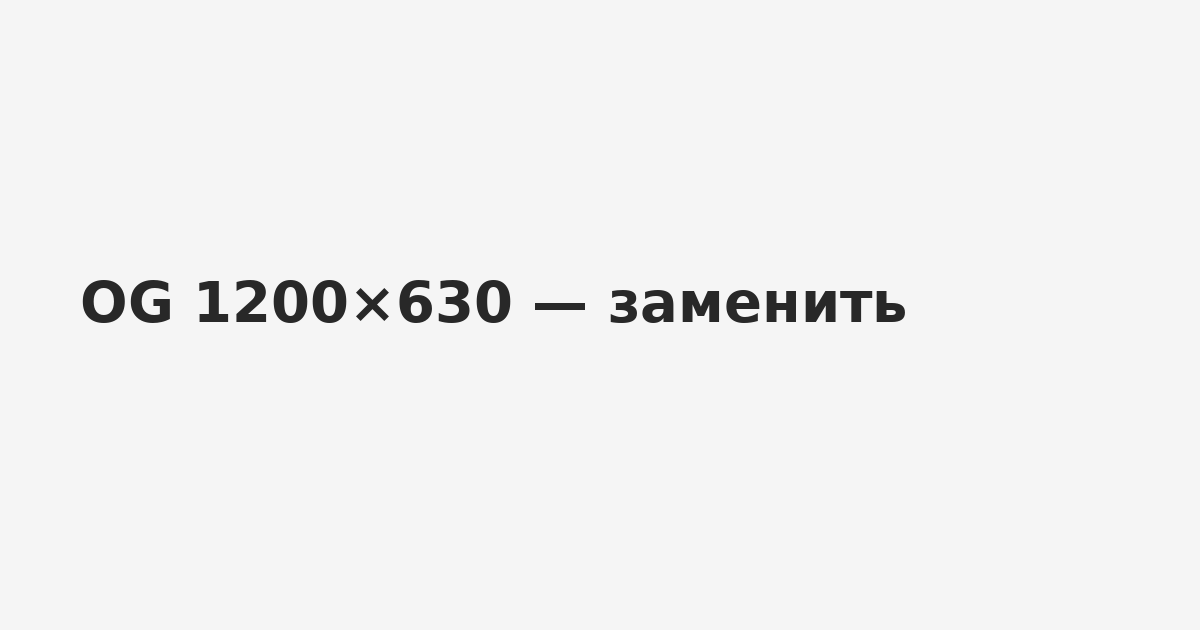
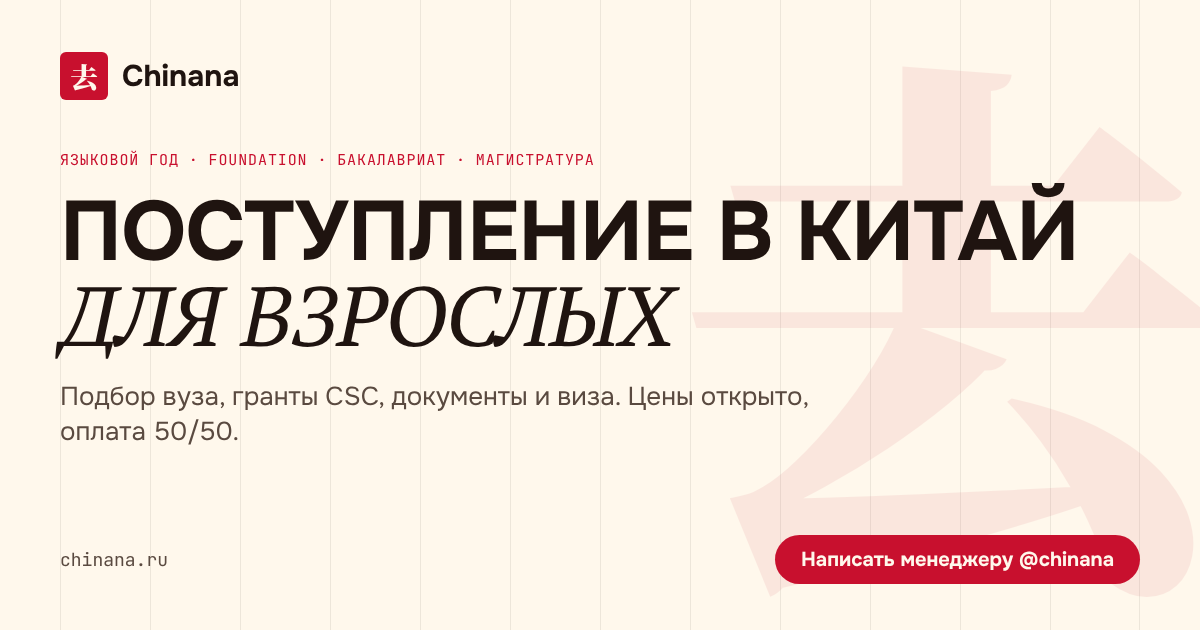
T16–T23: шрифт-подмножество, фавикон, OG, доступность логотипа (#15)
Claude-Session: https://claude.ai/code/session_01QsQA1ALxuqJ2HV99zuLppH

diff --git a/src/app/zh-font.css b/src/app/zh-font.css
@@ -1,0 +1,12 @@
+/* Сгенерировано scripts/cjk-font.py — не править руками. Иероглифов: 61, файлов: 10. */
+/* chars: 上业中交京北华南厦去吉同吧哈四国复外大奖学尔山川工师平开技旦本术林武水汉江测济浙海清滨理用硕科考范言试语费走连通金门预黑龙 */
+@font-face{font-family:'Noto Serif SC Subset';font-style:normal;font-weight:900;font-display:swap;src:url(/fonts/zh/zh-0.woff2) format('woff2');unicode-range:U+7855}
+@font-face{font-family:'Noto Serif SC Subset';font-style:normal;font-weight:900;font-display:swap;src:url(/fonts/zh/zh-1.woff2) format('woff2');unicode-range:U+65E6,U+6EE8}
+@font-face{font-family:'Noto Serif SC Subset';font-style:normal;font-weight:900;font-display:swap;src:url(/fonts/zh/zh-2.woff2) format('woff2');unicode-range:U+53A6}
+@font-face{font-family:'Noto Serif SC Subset';font-style:normal;font-weight:900;font-display:swap;src:url(/fonts/zh/zh-3.woff2) format('woff2');unicode-range:U+5409,U+54C8,U+5DDD,U+6D59}
+@font-face{font-family:'Noto Serif SC Subset';font-style:normal;font-weight:900;font-display:swap;src:url(/fonts/zh/zh-4.woff2) format('woff2');unicode-range:U+6B66,U+6C49}
+@font-face{font-family:'Noto Serif SC Subset';font-style:normal;font-weight:900;font-display:swap;src:url(/fonts/zh/zh-5.woff2) format('woff2');unicode-range:U+5956,U+5C14,U+6797,U+6D4B,U+6D4E,U+8303,U+9884}
+@font-face{font-family:'Noto Serif SC Subset';font-style:normal;font-weight:900;font-display:swap;src:url(/fonts/zh/zh-6.woff2) format('woff2');unicode-range:U+5427,U+5C71,U+5E08,U+6C5F,U+8003,U+8BD5,U+8BED,U+8D70,U+8FDE,U+9ED1,U+9F99}
+@font-face{font-family:'Noto Serif SC Subset';font-style:normal;font-weight:900;font-display:swap;src:url(/fonts/zh/zh-7.woff2) format('woff2');unicode-range:U+4EA4,U+4EAC,U+5317,U+534E,U+5357,U+53BB,U+56DB,U+590D,U+672F,U+6C34,U+6D77,U+6E05,U+8A00,U+8D39}
+@font-face{font-family:'Noto Serif SC Subset';font-style:normal;font-weight:900;font-display:swap;src:url(/fonts/zh/zh-8.woff2) format('woff2');unicode-range:U+4E0A,U+4E1A,U+540C,U+56FD,U+5916,U+5927,U+5B66,U+5DE5,U+5E73,U+5F00,U+6280,U+672C,U+7406,U+7528,U+79D1,U+901A,U+91D1,U+95E8}
+@font-face{font-family:'Noto Serif SC Subset';font-style:normal;font-weight:900;font-display:swap;src:url(/fonts/zh/zh-9.woff2) format('woff2');unicode-range:U+4E2D}

diff --git a/src/components/header.tsx b/src/components/header.tsx
@@ -6,9 +6,10 @@ import { Button } from "./ui/button";
 
 export function Logo({ className }: { className?: string }) {
   return (
-    <Link href="/" aria-label={`${site.name} — на главную`} className={`flex items-center gap-2.5 text-[21px] font-bold tracking-tight ${className ?? ""}`}>
+    <Link href="/" className={`flex items-center gap-2.5 text-[21px] font-bold tracking-tight ${className ?? ""}`}>
       <span aria-hidden="true" className="grid size-[34px] place-items-center rounded-[4px] bg-primary font-zh text-xl font-black text-primary-foreground">去</span>
       {site.name}
+      <span className="sr-only"> — на главную</span>
     </Link>
   );
 }

diff --git a/src/app/layout.tsx b/src/app/layout.tsx
@@ -6,7 +6,7 @@ import "@fontsource/onest/700.css";
 import "@fontsource/pt-serif/400-italic.css";
 import "@fontsource/jetbrains-mono/400.css";
 import "@fontsource/jetbrains-mono/500.css";
-import "@fontsource/noto-serif-sc/900.css"; // делится на диапазоны unicode-range: браузер грузит только нужные иероглифы
+import "./zh-font.css"; // подмножество Noto Serif SC 900 — только иероглифы сайта (scripts/cjk-font.py)
 import "./globals.css";
 import { site } from "@/content/site";
 import { Header } from "@/components/header";

diff --git a/src/app/globals.css b/src/app/globals.css
@@ -34,7 +34,7 @@
   --font-sans: "Onest", ui-sans-serif, system-ui, sans-serif;
   --font-serif: "PT Serif", Georgia, serif;
   --font-mono: "JetBrains Mono", ui-monospace, monospace;
-  --font-zh: "Noto Serif SC", serif;
+  --font-zh: "Noto Serif SC Subset", "Noto Serif SC", serif;
   --radius-sm: 0;
   --radius-md: 0;
   --radius-lg: 0;

diff --git a/scripts/cjk-font.py b/scripts/cjk-font.py
@@ -1,0 +1,100 @@
+#!/usr/bin/env python3
+"""Подмножество китайского шрифта Noto Serif SC 900 — только иероглифы, которые есть на сайте.
+
+Зачем: полный шрифт из @fontsource режется на ~100 кусков (unicode-range), их описания раздувают CSS до 100 КБ,
+а первый экран ждёт 6 кусков по 30–40 КБ. Подмножество — несколько КБ.
+
+Как работает: собирает иероглифы из src/ (ts, tsx, json, css), находит кусок @fontsource с каждым,
+режет кусок до нужных знаков (fontTools) и пишет public/fonts/zh/*.woff2 и src/app/zh-font.css.
+Запуск после правок с новыми иероглифами (новый вуз и т. п.):  python3 scripts/cjk-font.py
+npm run check сам ругается, если на сайте есть иероглиф, которого нет в подмножестве (scripts/check-cjk.mjs).
+Зависимость: pip install fonttools brotli
+"""
+import glob, io, os, re
+from fontTools import subset
+from fontTools.ttLib import TTFont
+
+ROOT = os.path.dirname(os.path.dirname(os.path.abspath(__file__)))
+SRC = os.path.join(ROOT, "node_modules/@fontsource/noto-serif-sc")
+OUT_DIR = os.path.join(ROOT, "public/fonts/zh")
+CSS_OUT = os.path.join(ROOT, "src/app/zh-font.css")
+
+
+def is_cjk(c: str) -> bool:
+    o = ord(c)
+    return 0x2E80 <= o <= 0x9FFF or 0xF900 <= o <= 0xFAFF or 0x3000 <= o <= 0x303F or 0xFF00 <= o <= 0xFFEF
+
+
+def site_chars() -> set[str]:
+    chars = set()
+    for pat in ("src/**/*.ts", "src/**/*.tsx", "src/**/*.json", "src/**/*.css"):
+        for f in glob.glob(os.path.join(ROOT, pat), recursive=True):
+            if f.endswith("zh-font.css"):
+                continue
+            chars |= {c for c in open(f, encoding="utf8").read() if is_cjk(c)}
+    return chars
+
+
+def slices():
+    """[(файл куска, множество кодов)] из 900.css пакета @fontsource."""
+    css = open(os.path.join(SRC, "900.css"), encoding="utf8").read()
+    out = []
+    for block in re.findall(r"@font-face\s*{([^}]*)}", css):
+        url = re.search(r"url\(\./files/([^)]+?\.woff2)\)", block)
+        rng = re.search(r"unicode-range:\s*([^;]+);", block)
+        if not url or not rng:
+            continue
+        codes = set()
+        for part in rng.group(1).split(","):
+            part = part.strip()[2:]
+            a, _, b = part.partition("-")
+            codes |= set(range(int(a, 16), int(b or a, 16) + 1))
+        out.append((url.group(1), codes))
+    return out
+
+
+def main():
+    chars = site_chars()
+    os.makedirs(OUT_DIR, exist_ok=True)
+    for f in glob.glob(os.path.join(OUT_DIR, "*.woff2")):
+        os.remove(f)
+    faces, covered = [], set()
+    for i, (fname, codes) in enumerate(slices()):
+        need = sorted(ord(c) for c in chars if ord(c) in codes and ord(c) not in covered)
+        if not need:
+            continue
+        font = TTFont(os.path.join(SRC, "files", fname))
+        opts = subset.Options()
+        opts.flavor = "woff2"
+        opts.layout_features = []
+        opts.name_IDs = []
+        opts.notdef_outline = False
+        s = subset.Subsetter(opts)
+        s.populate(unicodes=need)
+        s.subset(font)
+        name = f"zh-{len(faces)}.woff2"
+        buf = io.BytesIO()
+        font.flavor = "woff2"
+        font.save(buf)
+        open(os.path.join(OUT_DIR, name), "wb").write(buf.getvalue())
+        covered |= set(need)
+        rng = ",".join(f"U+{c:X}" for c in need)
+        faces.append(
+            f"@font-face{{font-family:'Noto Serif SC Subset';font-style:normal;font-weight:900;font-display:swap;"
+            f"src:url(/fonts/zh/{name}) format('woff2');unicode-range:{rng}}}"
+        )
+    missing = sorted(chars - {chr(c) for c in covered})
+    header = (
+        "/* Сгенерировано scripts/cjk-font.py — не править руками. "
+        f"Иероглифов: {len(covered)}, файлов: {len(faces)}. */\n"
+        f"/* chars: {''.join(sorted(chr(c) for c in covered))} */\n"
+    )
+    open(CSS_OUT, "w", encoding="utf8").write(header + "\n".join(faces) + "\n")
+    total = sum(os.path.getsize(f) for f in glob.glob(os.path.join(OUT_DIR, "*.woff2")))
+    print(f"Иероглифов: {len(covered)}, файлов: {len(faces)}, вес: {total / 1024:.1f} КБ")
+    if missing:
+        print("Нет в шрифте:", "".join(missing))
+
+
+if __name__ == "__main__":
+    main()

diff --git a/scripts/og.py b/scripts/og.py
@@ -1,0 +1,62 @@
+#!/usr/bin/env python3
+"""Рисует public/og.png (1200×630) в стиле сайта: цвета из токенов, шрифты из node_modules, знак 去.
+Запуск: python3 scripts/og.py  (нужны playwright и Chrome; путь к Chrome — CHROME_PATH, по умолчанию /usr/bin/google-chrome)."""
+import os, pathlib
+from playwright.sync_api import sync_playwright
+
+ROOT = pathlib.Path(__file__).resolve().parent.parent
+F = ROOT / "node_modules/@fontsource"
+ZH = sorted((ROOT / "public/fonts/zh").glob("*.woff2"))
+
+def face(family, path, weight=400, style="normal"):
+    return f"@font-face{{font-family:'{family}';src:url('{path.as_uri()}');font-weight:{weight};font-style:{style}}}"
+
+css = "".join([
+    face("Onest", F / "onest/files/onest-cyrillic-700-normal.woff2", 700),
+    face("Onest", F / "onest/files/onest-latin-700-normal.woff2", 700),
+    face("Onest", F / "onest/files/onest-cyrillic-400-normal.woff2", 400),
+    face("Onest", F / "onest/files/onest-latin-400-normal.woff2", 400),
+    face("PT Serif", F / "pt-serif/files/pt-serif-cyrillic-400-italic.woff2", 400, "italic"),
+    face("JB", F / "jetbrains-mono/files/jetbrains-mono-cyrillic-400-normal.woff2"),
+    face("JB", F / "jetbrains-mono/files/jetbrains-mono-latin-400-normal.woff2"),
+    *[face("ZH", z, 900) for z in ZH],
+])
+
+cols = "".join("<span></span>" for _ in range(12))
+html = f"""<html><head><style>{css}
+*{{margin:0;box-sizing:border-box}}
+body{{width:1200px;height:630px;background:#FFF8EC;color:#1F1410;font-family:Onest;position:relative;overflow:hidden}}
+.grid{{position:absolute;inset:0 60px;display:grid;grid-template-columns:repeat(12,1fr)}}
+.grid span{{border-left:1px solid rgba(31,20,16,.08)}} .grid span:last-child{{border-right:1px solid rgba(31,20,16,.08)}}
+.bg{{position:absolute;right:-30px;top:50%;transform:translateY(-52%);font:900 560px/1 ZH;color:#C8102E;opacity:.07}}
+.logo{{position:absolute;left:60px;top:52px;display:flex;align-items:center;gap:14px;font-weight:700;font-size:30px}}
+.seal{{width:48px;height:48px;border-radius:6px;background:#C8102E;color:#FFF8EC;display:grid;place-items:center;font:900 28px ZH}}
+.main{{position:absolute;left:60px;right:60px;top:150px;display:flex;flex-direction:column;gap:22px}}
+.eyebrow{{font:15px JB;text-transform:uppercase;letter-spacing:.06em;color:#C8102E}}
+h1{{font-size:84px;line-height:.98;font-weight:700;text-transform:uppercase;letter-spacing:-.01em}}
+h1 em{{font-family:'PT Serif';font-style:italic;font-weight:400}}
+.sub{{width:780px;font-size:26px;line-height:1.35;color:#5A4A40}}
+.foot{{position:absolute;left:60px;right:60px;bottom:46px;display:flex;justify-content:space-between;font:18px JB;color:#5A4A40}}
+.pill{{background:#C8102E;color:#FFF8EC;border-radius:999px;padding:12px 26px;font:700 20px Onest}}
+.foot{{align-items:center}}
+</style></head><body>
+<div class="grid">{cols}</div>
+<div class="bg">去</div>
+<div class="logo"><div class="seal">去</div>Chinana</div>
+<div class="main"><div class="eyebrow">Языковой год · Foundation · Бакалавриат · Магистратура</div>
+<h1>Поступление в&nbsp;Китай<br><em>для&nbsp;взрослых</em></h1>
+<p class="sub">Подбор вуза, гранты CSC, документы и&nbsp;виза. Цены открыто, оплата 50/50.</p></div>
+<div class="foot"><span>chinana.ru</span><span class="pill">Написать менеджеру @chinana</span></div>
+</body></html>"""
+
+with sync_playwright() as p:
+    b = p.chromium.launch(executable_path=os.environ.get("CHROME_PATH", "/usr/bin/google-chrome"), args=["--no-sandbox", "--allow-file-access-from-files"])
+    pg = b.new_page(viewport={"width": 1200, "height": 630})
+    tmp = ROOT / "out-og.html"
+    tmp.write_text(html, encoding="utf8")
+    pg.goto(tmp.as_uri(), wait_until="networkidle")
+    pg.wait_for_timeout(300)
+    pg.screenshot(path=str(ROOT / "public/og.png"))
+    tmp.unlink()
+    b.close()
+print("public/og.png готов")

diff --git a/specs/05-tasks.md b/specs/05-tasks.md
@@ -24,18 +24,18 @@
 - [x] **T15** `/universities/` (фильтры прогрессивно, список в HTML) и `/universities/[slug]/` с CTA по `partner` — *проверка:* ≥ 250 слов на вуз, на `partner:false` нет «поступим»
 
 ## Этап 3. GEO и SEO
-- [ ] **T16** `llms.txt`, `llms-full.txt`, `sitemap.xml`, `robots.txt` — *проверка:* geo-check ≥ 8/10
-- [ ] **T17** Мета всех страниц по карте spec §4 — *проверка:* title 40–65, description 120–160
-- [ ] **T18** OG-картинка и фавикон (временный знак 去) — *проверка:* `og.png` 1200×630
+- [x] **T16** `llms.txt`, `llms-full.txt`, `sitemap.xml`, `robots.txt` — *проверка:* geo-check ≥ 8/10
+- [x] **T17** Мета всех страниц по карте spec §4 — *проверка:* title 40–65, description 120–160
+- [x] **T18** OG-картинка и фавикон (временный знак 去) — *проверка:* `og.png` 1200×630
 
 ## Этап 4. Тексты
 - [ ] **T19** Сводный Главред — *проверка:* `npm run check` без ошибок Главреда
 - [ ] **T20** Ориентиры `estimate` — подтверждены или убраны — *проверка:* `npm run check` их не выводит
 
 ## Этап 5. Качество
-- [ ] **T21** Адаптив 360 / 768 / 1280 / 1440
-- [ ] **T22** Lighthouse mobile: главная, программа, вуз — *проверка:* Performance ≥ 90, Accessibility ≥ 95, SEO = 100; вес CJK-шрифта ≤ 100 КБ
-- [ ] **T23** Доступность: фокус, клавиатура, контраст
+- [x] **T21** Адаптив 360 / 768 / 1280 / 1440
+- [x] **T22** Lighthouse mobile: главная, программа, вуз — *проверка:* Performance ≥ 90, Accessibility ≥ 95, SEO = 100; вес CJK-шрифта ≤ 100 КБ
+- [x] **T23** Доступность: фокус, клавиатура, контраст
 
 ## Этап 6. Запуск
 - [x] **T24** Pre-flight хостинга (`04-plan.md` §1) — *проверка:* пробная выкладка из Actions прошла
@@ -60,3 +60,4 @@
 | 2026-11-09 | T02–T09 | site.ts (самозанятый, CTA @chinana, флаги), токены и шрифты локально, шапка/футер/сетка/карточки, удалены services и about, главная, 4 программы и список, контакты/политика/согласие; превью-артефакт | `npm run check`: всё зелёное, кроме TODO почты для ПДн; geo-check 8.8/10; Главред 7.5+ |
 | 2026-11-09 | T10–T15 | Ресёрч с источниками в `specs/research/` (CSC, CSCA, HSK, 20 вузов). Шаблон `AnswerPage` со сносками [n] и датой проверки; /grants/csc/, /exams/csca/, /exams/hsk/; каталог `src/content/data/universities.json` (сборка — `node scripts/merge-universities.mjs`), /universities/ и 20 страниц вузов (все `partner: false`, CTA — консультация); /cost/ считается из данных вузов; пункты меню возвращены; sitemap и llms.txt дополнены | `npm run check` зелёный, geo-check 8.7/10. Не подтверждены и на сайт не вынесены: даты CSCA и HSK на 2027, срок действия баллов CSCA, центр CSCA в России — сверить на csca.cn и chinesetest.cn (сайты не открылись из облака) |
 | 2026-11-09 | правки Ника | Главная: каталог вузов — контурная карта Китая (Natural Earth 1:50m, `scripts/china-map.mjs`) + список по городам, подсветка точки через :has(); надзаголовок вместо хлебных крошек на страницах второго уровня (программы, вузы, ответы, статьи), BreadcrumbList убран вместе с крошками | geo-check 8.7/10 |
+| 2026-11-09 | T16–T18, T21–T23 | Китайский шрифт — подмножество из 61 иероглифа (`scripts/cjk-font.py`, 17 КБ вместо ~220 КБ и 100 КБ CSS), проверка покрытия в `scripts/check.local.mjs`; фавикон, icon.svg и apple-icon со знаком 去 (контур из шрифта); og.png в стиле сайта (`scripts/og.py`); логотип без aria-label (имя совпадает с видимым текстом); адаптив 360/768/1280/1440 — переполнения нет на 32 страницах | Lighthouse локально без сжатия: Accessibility 100, SEO 100, Performance 80; на сервере gzip и кеш 30 дней — итог смотреть в шаге PageSpeed выкладки |
